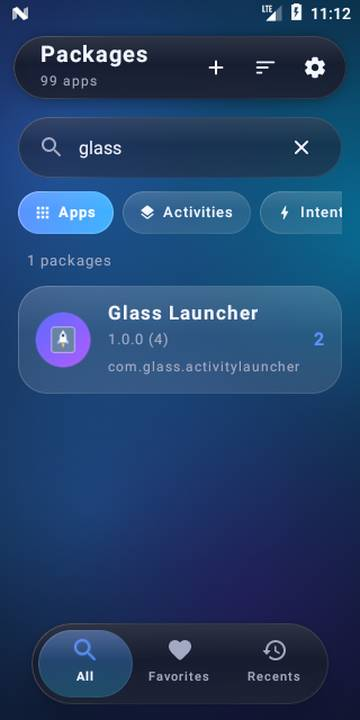
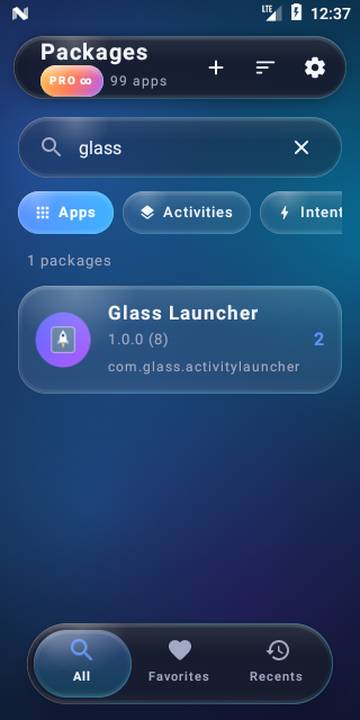
Glass Launcher 1.0.8: update screenshots + README

diff --git a/activity-launcher/README.md b/activity-launcher/README.md
@@ -7,6 +7,14 @@ Jetpack Compose, Android **5.0+ (API 21+)**, русский + английски
 
 APK собирается GitHub Actions при каждом пуше и публикуется в [Releases](https://github.com/Korimuspast1/pr/releases?q=glass-launcher).
 
+## Новое в 1.0.8
+
+- **PRO активна навсегда ∞** — карточка подписки в настройках и значок PRO ∞ на главных экранах
+- **Перетаскиваемая нижняя панель**: зажмите «каплю» и тащите влево/вправо, как на iPhone, — она растягивается, приподнимается, увеличивается и встаёт на ближайшую вкладку; порядок вкладок и стартовая вкладка настраиваются
+- **Улучшенное стекло**: прозрачнее, блики по краям («преломление»), внутреннее свечение, цветной отблеск снизу; пресеты Кристалл / Прозрачное / Матовое / Плотное
+- **Редактируется всё**: выбор приложения и активити из списка, тип запуска (Activity / Service / Foreground service / Broadcast), флаги вручную (hex/число), массивы в extras (string[]/int[]/long[]/float[]) и null, иконка из любой активити, другого приложения или галереи, дублирование избранного
+- **Оформление**: свой цвет акцента (HSV + HEX), фон (жидкий / градиент / однотонный / своё фото с затемнением), скругление, размер текста и иконок, метки, счётчики, подписи вкладок, свои заголовки экранов, сброс оформления
+
 ## Функции
 
 - **Все пакеты**: поиск по названию/пакету, фильтр пользовательские/системные, сортировка (имя, пакет, дата установки/обновления, число активити), счётчик активити
@@ -27,7 +35,7 @@ APK собирается GitHub Actions при каждом пуше и публ
 |---|---|---|---|
 | <img src="screenshots/shot-34-1-apps.jpg" width="200"> | <img src="screenshots/shot-34-2-settings.jpg" width="200"> | <img src="screenshots/shot-34-3-settings-bottom.jpg" width="200"> | <img src="screenshots/shot-34-4-dark-settings.jpg" width="200"> |
 | <img src="screenshots/shot-34-5-apps-dark.jpg" width="200"> | <img src="screenshots/shot-34-6-activities.jpg" width="200"> | <img src="screenshots/shot-34-6b-search.jpg" width="200"> | <img src="screenshots/shot-34-10-favorites.jpg" width="200"> |
-| <img src="screenshots/shot-34-11-recents.jpg" width="200"> |
+| <img src="screenshots/shot-34-11-recents.jpg" width="200"> | <img src="screenshots/shot-34-12-drag-mid.jpg" width="200"> | <img src="screenshots/shot-34-13-drag-end.jpg" width="200"> |
 
 ### Android 7.0 (API 24)
 |  |  |  |  |
@@ -35,3 +43,4 @@ APK собирается GitHub Actions при каждом пуше и публ
 | <img src="screenshots/shot-24-1-apps.jpg" width="200"> | <img src="screenshots/shot-24-2-settings.jpg" width="200"> | <img src="screenshots/shot-24-3-settings-bottom.jpg" width="200"> | <img src="screenshots/shot-24-4-dark-settings.jpg" width="200"> |
 | <img src="screenshots/shot-24-5-apps-dark.jpg" width="200"> | <img src="screenshots/shot-24-6-activities.jpg" width="200"> | <img src="screenshots/shot-24-6b-search.jpg" width="200"> | <img src="screenshots/shot-24-7-package.jpg" width="200"> |
 | <img src="screenshots/shot-24-8-editor.jpg" width="200"> | <img src="screenshots/shot-24-9-editor-intent.jpg" width="200"> | <img src="screenshots/shot-24-10-favorites.jpg" width="200"> | <img src="screenshots/shot-24-11-recents.jpg" width="200"> |
+| <img src="screenshots/shot-24-12-drag-mid.jpg" width="200"> | <img src="screenshots/shot-24-13-drag-end.jpg" width="200"> |
